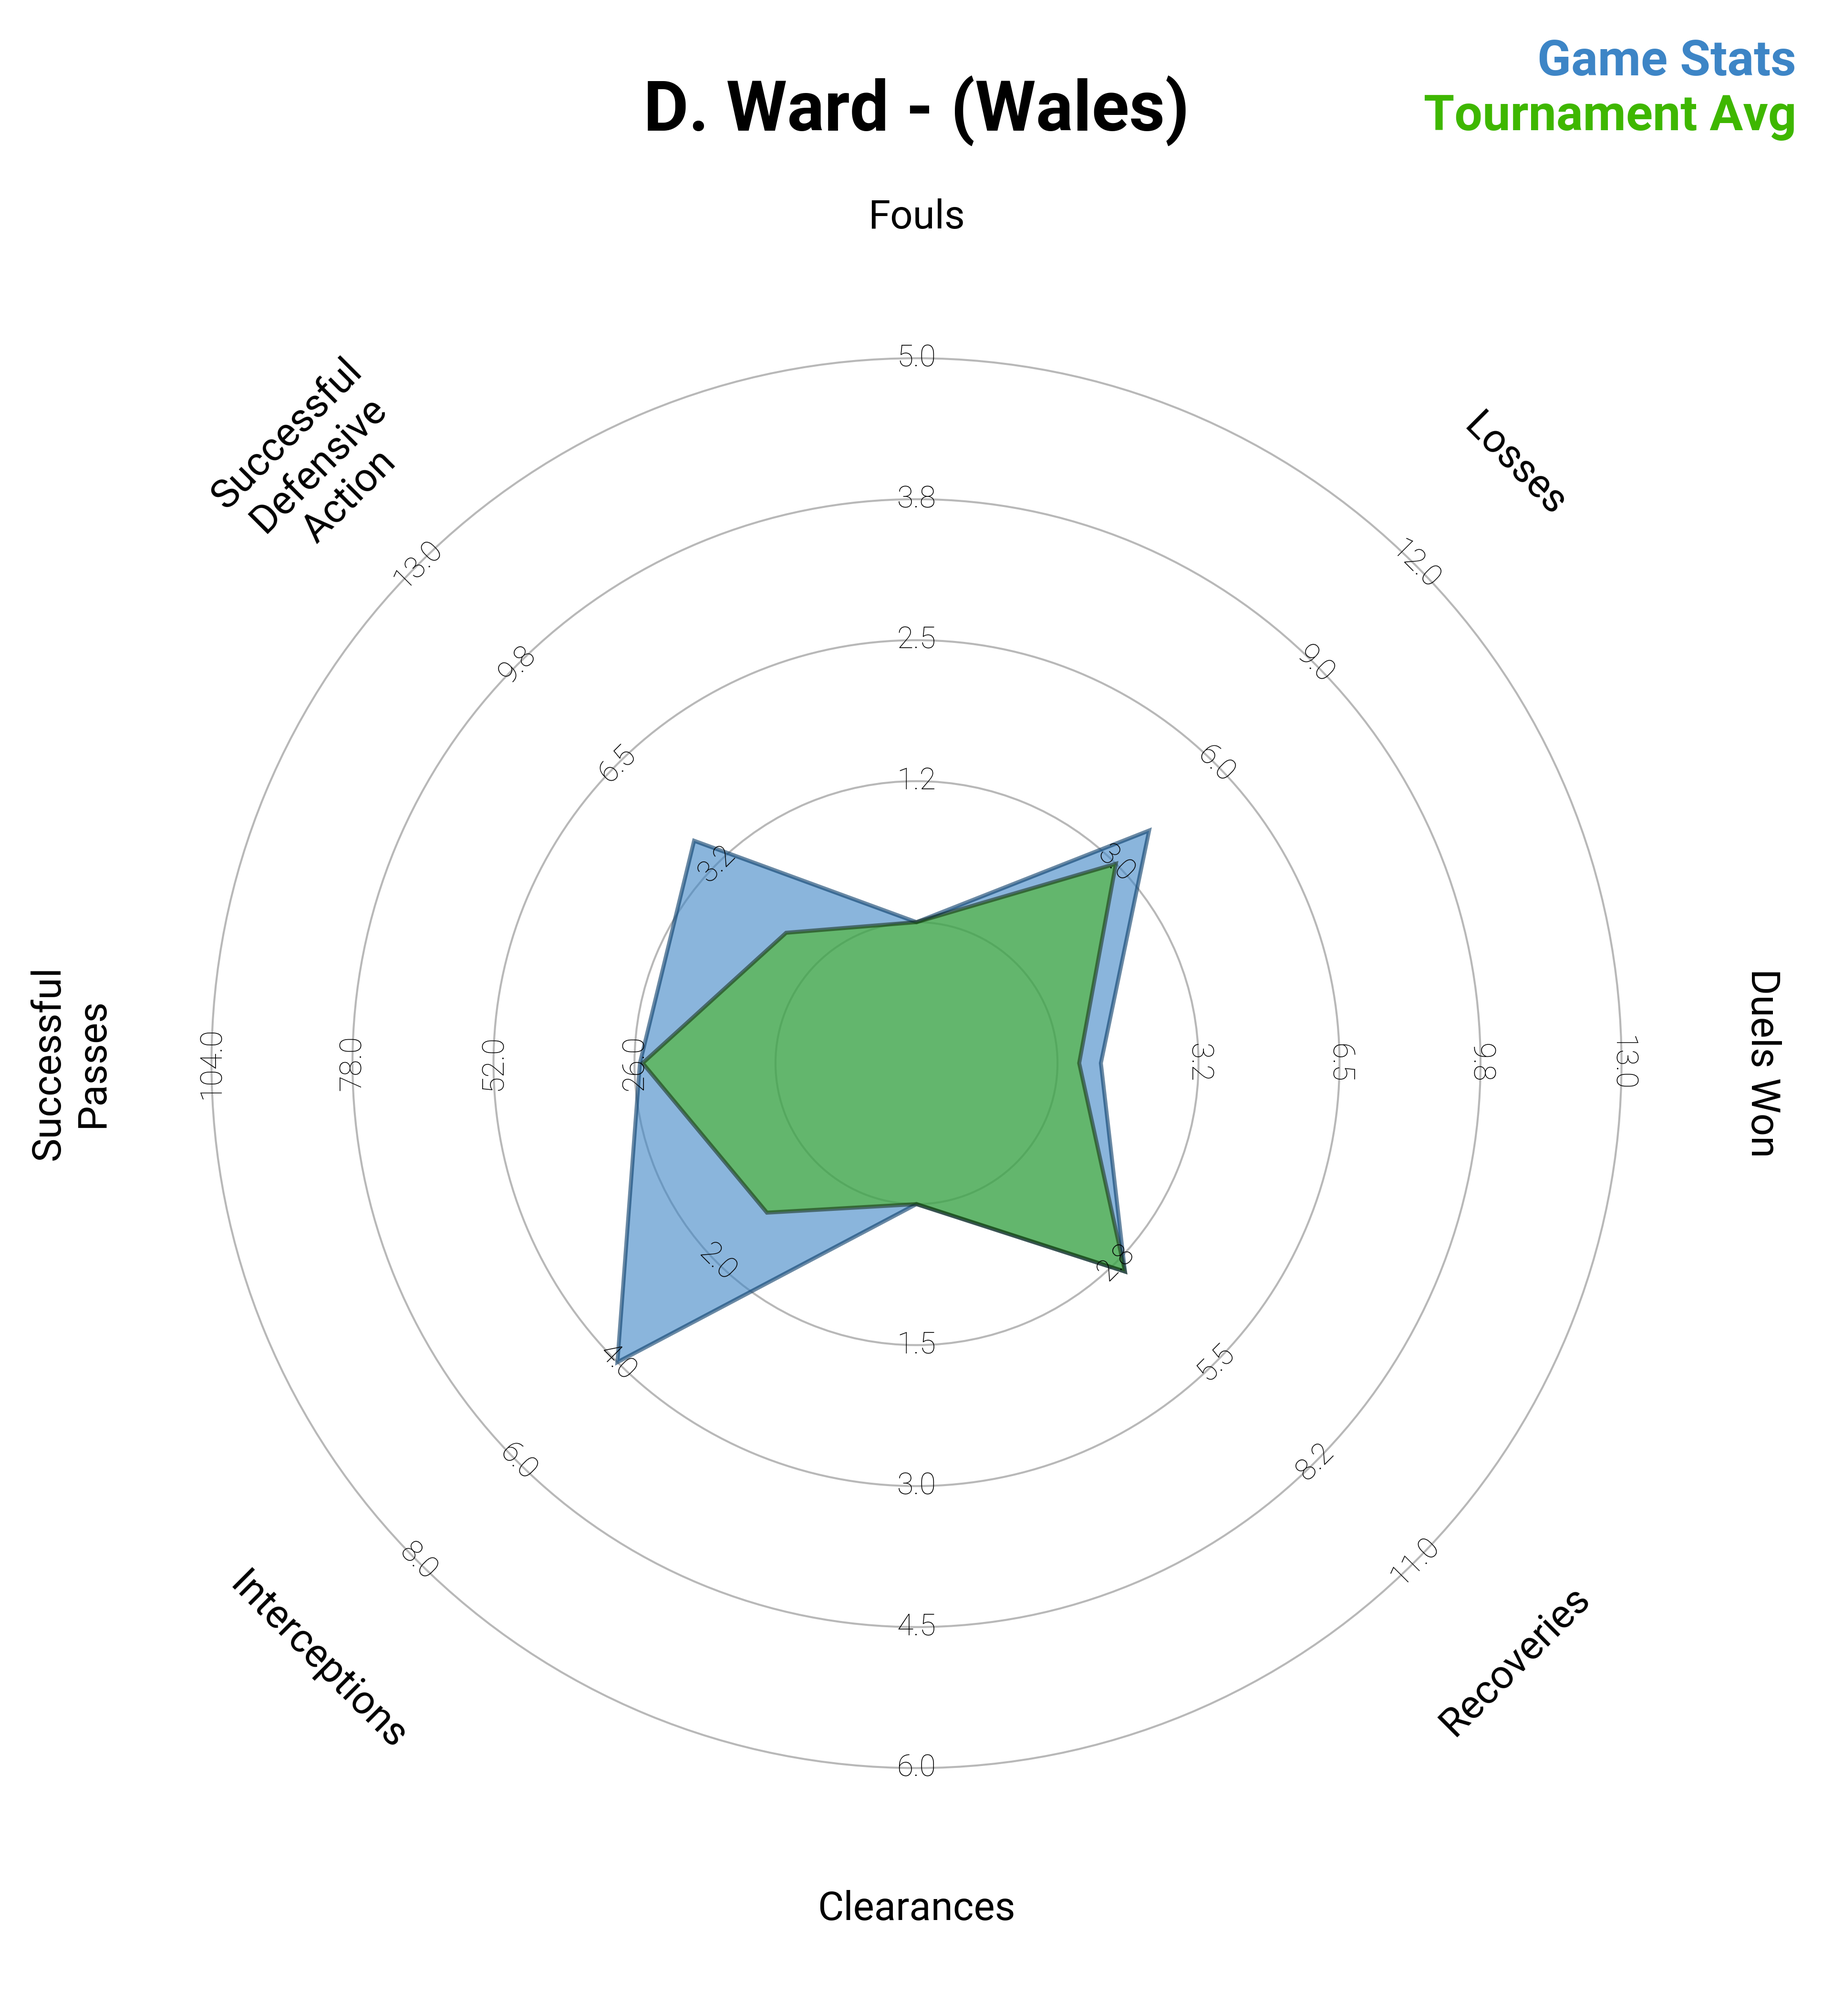
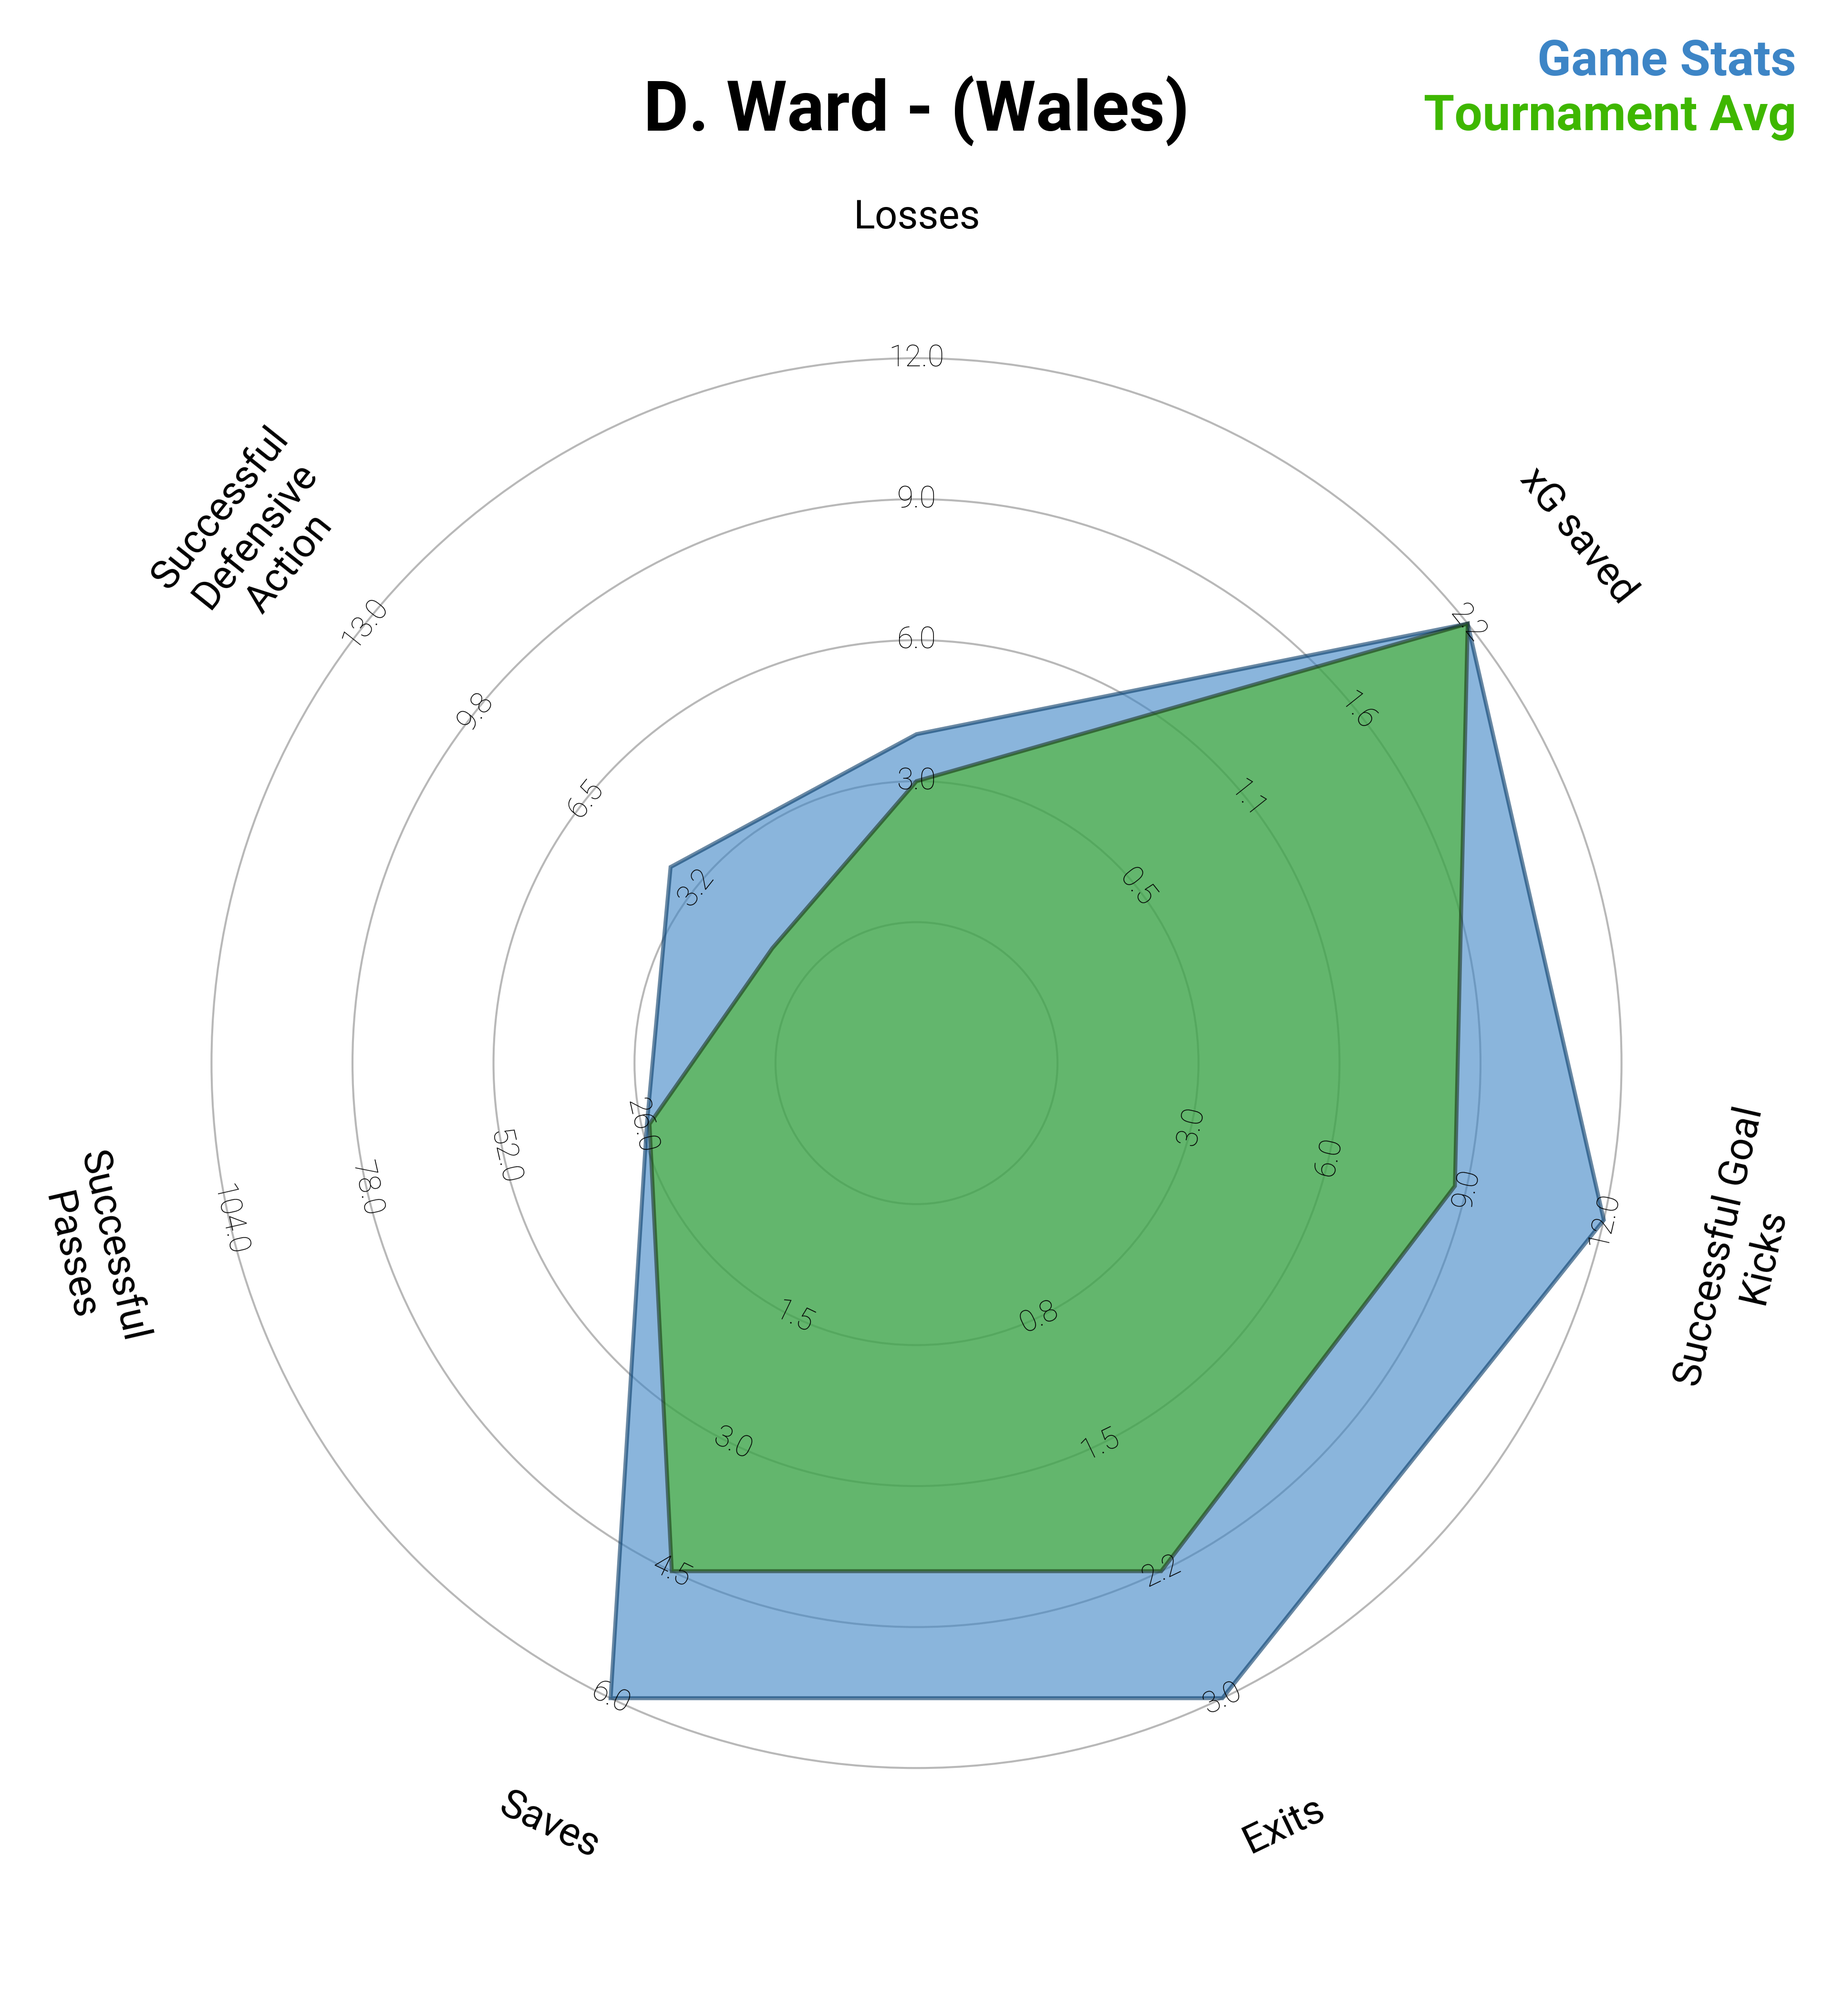
fixed player stats

diff --git a/overview/players statistics.py b/overview/players statistics.py
@@ -29,7 +29,11 @@ list_params = [
     "losses",
     "clearances",
     "interceptions",
-    "successfulDefensiveAction"
+    "successfulDefensiveAction",
+    'xgSave',
+    'successfulGoalKicks',
+    'gkExits',
+    'gkSaves',
 ]
 
 attack_params = [
@@ -54,6 +58,16 @@ defense_params = [
     "successfulDefensiveAction"
 ]
 
+gk_params = [
+    'losses',
+    'xgSave',
+    'successfulGoalKicks',
+    'gkExits',
+    'gkSaves',
+    'successfulPasses',
+    'successfulDefensiveAction'
+]
+
 matches = {
     'Both':  ['5034296'],
     'Wales': ['5111396', '5034293', '5034292'],
@@ -65,7 +79,6 @@ all_matches = ['5034296', '5111410', '5111408', '5111404', '5111397', '5034294',
 defense = {
  'Centre Back',
  'Defensive Midfielder',
- 'Goalkeeper',
  'Left Back',
  'Left Back (5 at the back)',
  'Left Centre Back',
@@ -198,7 +211,8 @@ low_att =  [0 for i in attack_params]
 high_def = [params_values_max[param] for param in defense_params]
 low_def =  [0 for i in defense_params]
 
-clean_params = ['Successful Passes', 'Progressive Runs', 'Shots Taken', 'Crosses', 'Assists', 'Dribbles', 'Duels Won', 'Recoveries', 'Ball Losses']
+high_gk = [params_values_max[param] for param in gk_params]
+low_gk =  [0 for i in gk_params]
 
 clean_arrack_params = [
     "Shots",
@@ -222,8 +236,19 @@ clean_defense_params = [
     "Successful Defensive Action"
 ]
 
+clean_gk_params = [
+    'Losses',
+    'xG saved',
+    'Successful Goal Kicks',
+    'Exits',
+    'Saves',
+    'Successful Passes',
+    'Successful Defensive Action'
+]
+
 attack_radar = Radar(clean_arrack_params, low_att, high_att, round_int=[False]*len(attack_params), num_rings=4, ring_width=1, center_circle_radius=1)
 defense_radar = Radar(clean_defense_params, low_def, high_def, round_int=[False]*len(defense_params), num_rings=4, ring_width=1, center_circle_radius=1)
+gk_radar = Radar(clean_gk_params, low_gk, high_gk, round_int=[False]*len(gk_params), num_rings=4, ring_width=1, center_circle_radius=1)
 
 ############
 # Plotting #
@@ -239,82 +264,88 @@ def radar_mosaic(radar_height=0.915, title_height=0.06, figheight=14):
     axes['title'].axis('off')
     return figure, axes
 
-# for team in ['Italy', 'Wales']:
-#     for (player_id, values) in player_stats_avarage[team].items():
-#         if max(list(values.values())) > 0:
-#             name = player_names[player_id]
-#             position = player_position[player_id]
-
-#             if position in defense:
-#                 radar = defense_radar
-
-#                 avg_val = [values[param] for param in defense_params]
-#                 val     = [player_stats[matches['Both'][0]][player_id][param] for param in defense_params]
-#             elif position in attack:
-#                 radar = attack_radar
-
-#                 avg_val = [values[param] for param in attack_params]
-#                 val     = [player_stats[matches['Both'][0]][player_id][param] for param in attack_params]
-
-#             fig, axs = radar_mosaic()
-#             radar.setup_axis(ax=axs['radar'])
-
-#             rings_inner = radar.draw_circles(ax=axs['radar'], facecolor='#fff', edgecolor='#b8b8b8')  # draw circles
-
-#             radar_output = radar.draw_radar_compare(list(val), list(avg_val), ax=axs['radar'],
-#                                         kwargs_radar   ={'facecolor': '#3d85c6', 'alpha': 0.6, 'edgecolor': '#073A67', 'linewidth': 2},
-#                                         kwargs_compare ={'facecolor': '#3eb700', 'alpha': 0.5, 'edgecolor': '#081e00', 'linewidth': 2})
-            
-#             radar_poly, radar_poly2, vertices1, vertices2 = radar_output
-#             range_labels = radar.draw_range_labels(ax=axs['radar'], fontsize=15, fontproperties=robotto_thin.prop)  # draw the range labels
-#             param_labels = radar.draw_param_labels(ax=axs['radar'], fontsize=20, fontproperties=robotto_regular.prop) 
-            
-#             title1_text = axs['title'].text(0.5, 0.1, f'{name} - ({team})', fontsize=35, color='#000000',
-#                                 fontproperties=robotto_bold.prop, ha='center', va='center')
-
-#             title2_text = axs['title'].text(0.98, 0.5, 'Game Stats', fontsize=25, color='#3d85c6',
-#                                 fontproperties=robotto_bold.prop, ha='right', va='center')
-
-#             title3_text = axs['title'].text(0.98, 0.05, 'Tournament Avg', fontsize=25, color='#3eb700',
-#                                 fontproperties=robotto_bold.prop, ha='right', va='center')
-
-#             plt.savefig(f'assets/player_stats/{name}-{team}-{position}.png', dpi=300)
-#             plt.close()
-
-
-for team in ['Italy']:
-    for player_id1, player_id2 in [(21383, 447804)]:
-            name1 = player_names[player_id1]
-            name2 = player_names[player_id2]
-            position = player_position[player_id1]
+for team in ['Italy', 'Wales']:
+    for (player_id, values) in player_stats_avarage[team].items():
+        if max(list(values.values())) > 0:
+            name = player_names[player_id]
+            position = player_position[player_id]
 
             if position in defense:
                 radar = defense_radar
-                val_p1     = [player_stats[matches['Both'][0]][player_id1][param] for param in attack_params]
-                val_p2     = [player_stats[matches['Both'][0]][player_id2][param] for param in attack_params]
+
+                avg_val = [values[param] for param in defense_params]
+                val     = [player_stats[matches['Both'][0]][player_id][param] for param in defense_params]
             elif position in attack:
                 radar = attack_radar
-                val_p1     = [player_stats[matches['Both'][0]][player_id1][param] for param in attack_params]
-                val_p2     = [player_stats[matches['Both'][0]][player_id2][param] for param in attack_params]
+
+                avg_val = [values[param] for param in attack_params]
+                val     = [player_stats[matches['Both'][0]][player_id][param] for param in attack_params]
+            elif position ==  'Goalkeeper':
+                radar = gk_radar
+
+                avg_val = [values[param] for param in gk_params]
+                val     = [player_stats[matches['Both'][0]][player_id][param] for param in gk_params]
 
             fig, axs = radar_mosaic()
             radar.setup_axis(ax=axs['radar'])
 
             rings_inner = radar.draw_circles(ax=axs['radar'], facecolor='#fff', edgecolor='#b8b8b8')  # draw circles
 
-            radar_output = radar.draw_radar_compare(list(val_p1), list(val_p2), ax=axs['radar'],
-                                        kwargs_radar   ={'facecolor': '#3d85c6', 'alpha': 0.5, 'edgecolor': '#073A67', 'linewidth': 3},
-                                        kwargs_compare ={'facecolor': '#3eb700', 'alpha': 0.5, 'edgecolor': '#081e00', 'linewidth': 3})
+            radar_output = radar.draw_radar_compare(list(val), list(avg_val), ax=axs['radar'],
+                                        kwargs_radar   ={'facecolor': '#3d85c6', 'alpha': 0.6, 'edgecolor': '#073A67', 'linewidth': 2},
+                                        kwargs_compare ={'facecolor': '#3eb700', 'alpha': 0.5, 'edgecolor': '#081e00', 'linewidth': 2})
             
             radar_poly, radar_poly2, vertices1, vertices2 = radar_output
             range_labels = radar.draw_range_labels(ax=axs['radar'], fontsize=15, fontproperties=robotto_thin.prop)  # draw the range labels
             param_labels = radar.draw_param_labels(ax=axs['radar'], fontsize=20, fontproperties=robotto_regular.prop) 
             
-            title1_text = axs['title'].text(0.05, 0.1, name1, fontsize=35, color='#3d85c6',
-                                fontproperties=robotto_bold.prop, ha='left', va='center')
+            title1_text = axs['title'].text(0.5, 0.1, f'{name} - ({team})', fontsize=35, color='#000000',
+                                fontproperties=robotto_bold.prop, ha='center', va='center')
 
-            title2_text = axs['title'].text(0.95, 0.1, name2, fontsize=35, color='#3eb700',
+            title2_text = axs['title'].text(0.98, 0.5, 'Game Stats', fontsize=25, color='#3d85c6',
                                 fontproperties=robotto_bold.prop, ha='right', va='center')
 
-            plt.savefig(f'assets/player_stats/{name1}-{name2}.png', dpi=300)
+            title3_text = axs['title'].text(0.98, 0.05, 'Tournament Avg', fontsize=25, color='#3eb700',
+                                fontproperties=robotto_bold.prop, ha='right', va='center')
+
+            plt.savefig(f'assets/player_stats/{name}-{team}-{position}.png', dpi=300)
             plt.close()
+
+# Verratti Chiesa: (21383, 447804)
+# Bastoni Rodon: (405597, 412919)
+
+for player_id1, player_id2 in [(405597, 412919), (21383, 447804)]:
+    name1 = player_names[player_id1]
+    name2 = player_names[player_id2]
+    position = player_position[player_id1]
+
+    if position in defense:
+        radar = defense_radar
+        val_p1     = [player_stats[matches['Both'][0]][player_id1][param] for param in defense_params]
+        val_p2     = [player_stats[matches['Both'][0]][player_id2][param] for param in defense_params]
+    elif position in attack:
+        radar = attack_radar
+        val_p1     = [player_stats[matches['Both'][0]][player_id1][param] for param in attack_params]
+        val_p2     = [player_stats[matches['Both'][0]][player_id2][param] for param in attack_params]
+
+    fig, axs = radar_mosaic()
+    radar.setup_axis(ax=axs['radar'])
+
+    rings_inner = radar.draw_circles(ax=axs['radar'], facecolor='#fff', edgecolor='#b8b8b8')  # draw circles
+
+    radar_output = radar.draw_radar_compare(list(val_p1), list(val_p2), ax=axs['radar'],
+                                kwargs_radar   ={'facecolor': '#3d85c6', 'alpha': 0.5, 'edgecolor': '#073A67', 'linewidth': 3},
+                                kwargs_compare ={'facecolor': '#3eb700', 'alpha': 0.5, 'edgecolor': '#081e00', 'linewidth': 3})
+            
+    radar_poly, radar_poly2, vertices1, vertices2 = radar_output
+    range_labels = radar.draw_range_labels(ax=axs['radar'], fontsize=15, fontproperties=robotto_thin.prop)  # draw the range labels
+    param_labels = radar.draw_param_labels(ax=axs['radar'], fontsize=20, fontproperties=robotto_regular.prop) 
+            
+    title1_text = axs['title'].text(0.05, 0.1, name1, fontsize=35, color='#3d85c6',
+                        fontproperties=robotto_bold.prop, ha='left', va='center')
+
+    title2_text = axs['title'].text(0.95, 0.1, name2, fontsize=35, color='#3eb700',
+                        fontproperties=robotto_bold.prop, ha='right', va='center')
+
+    plt.savefig(f'assets/player_stats/{name1}-{name2}.png', dpi=300)
+    plt.close()
